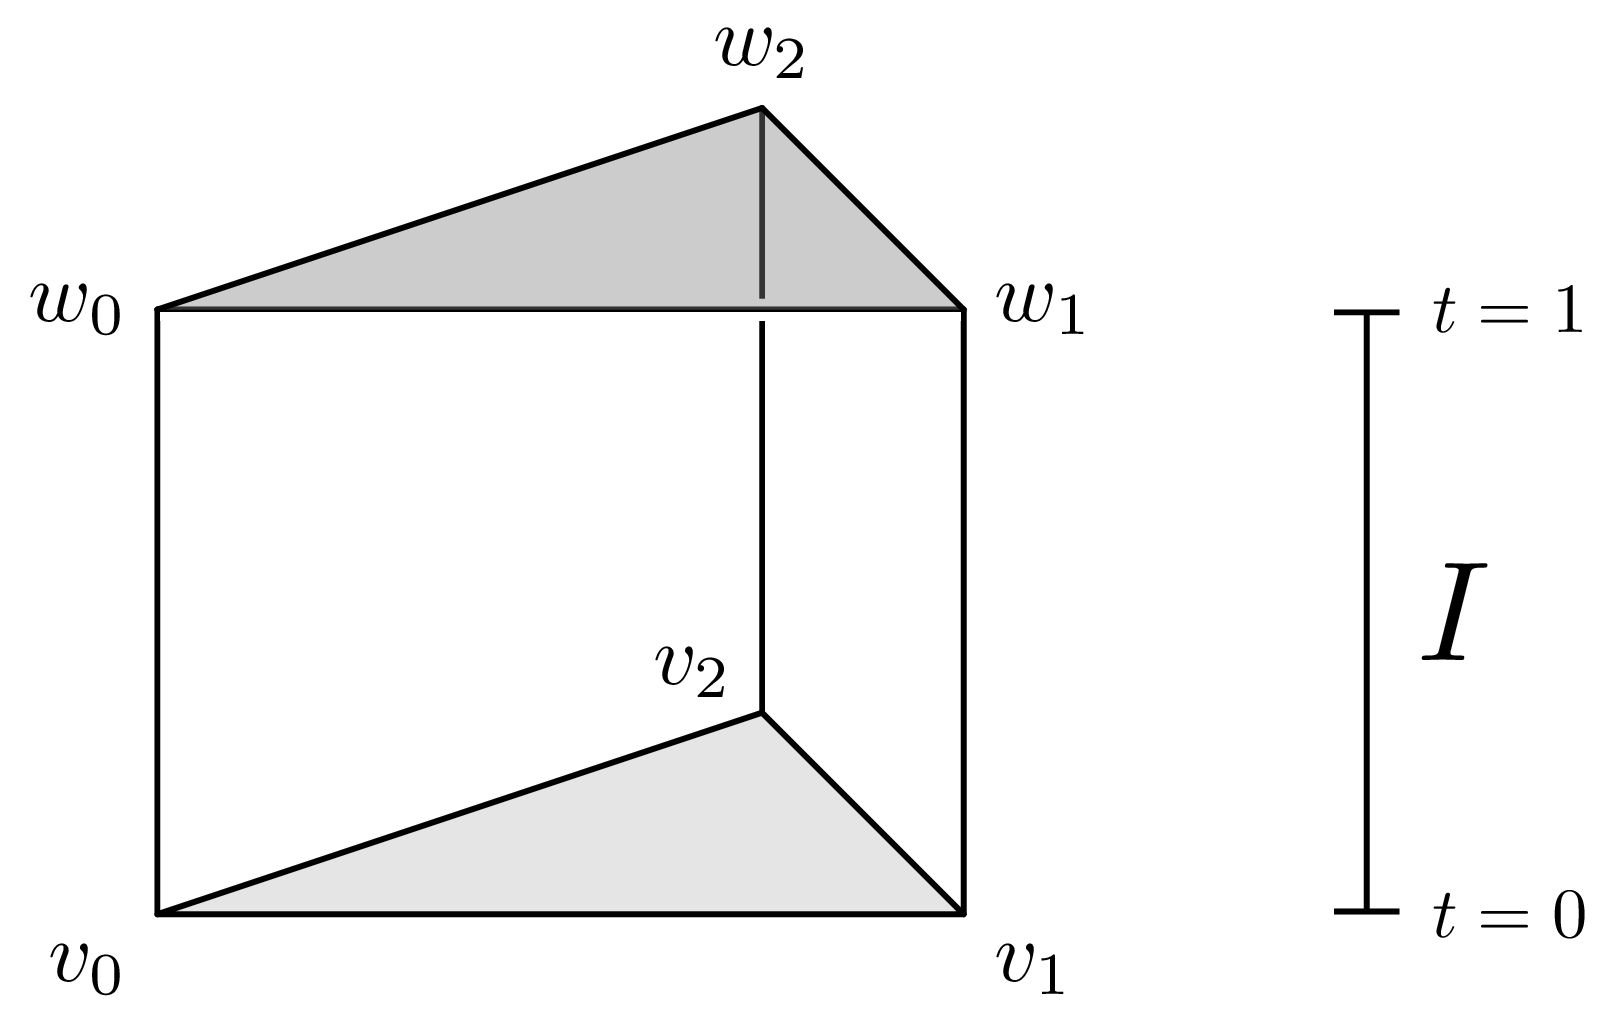
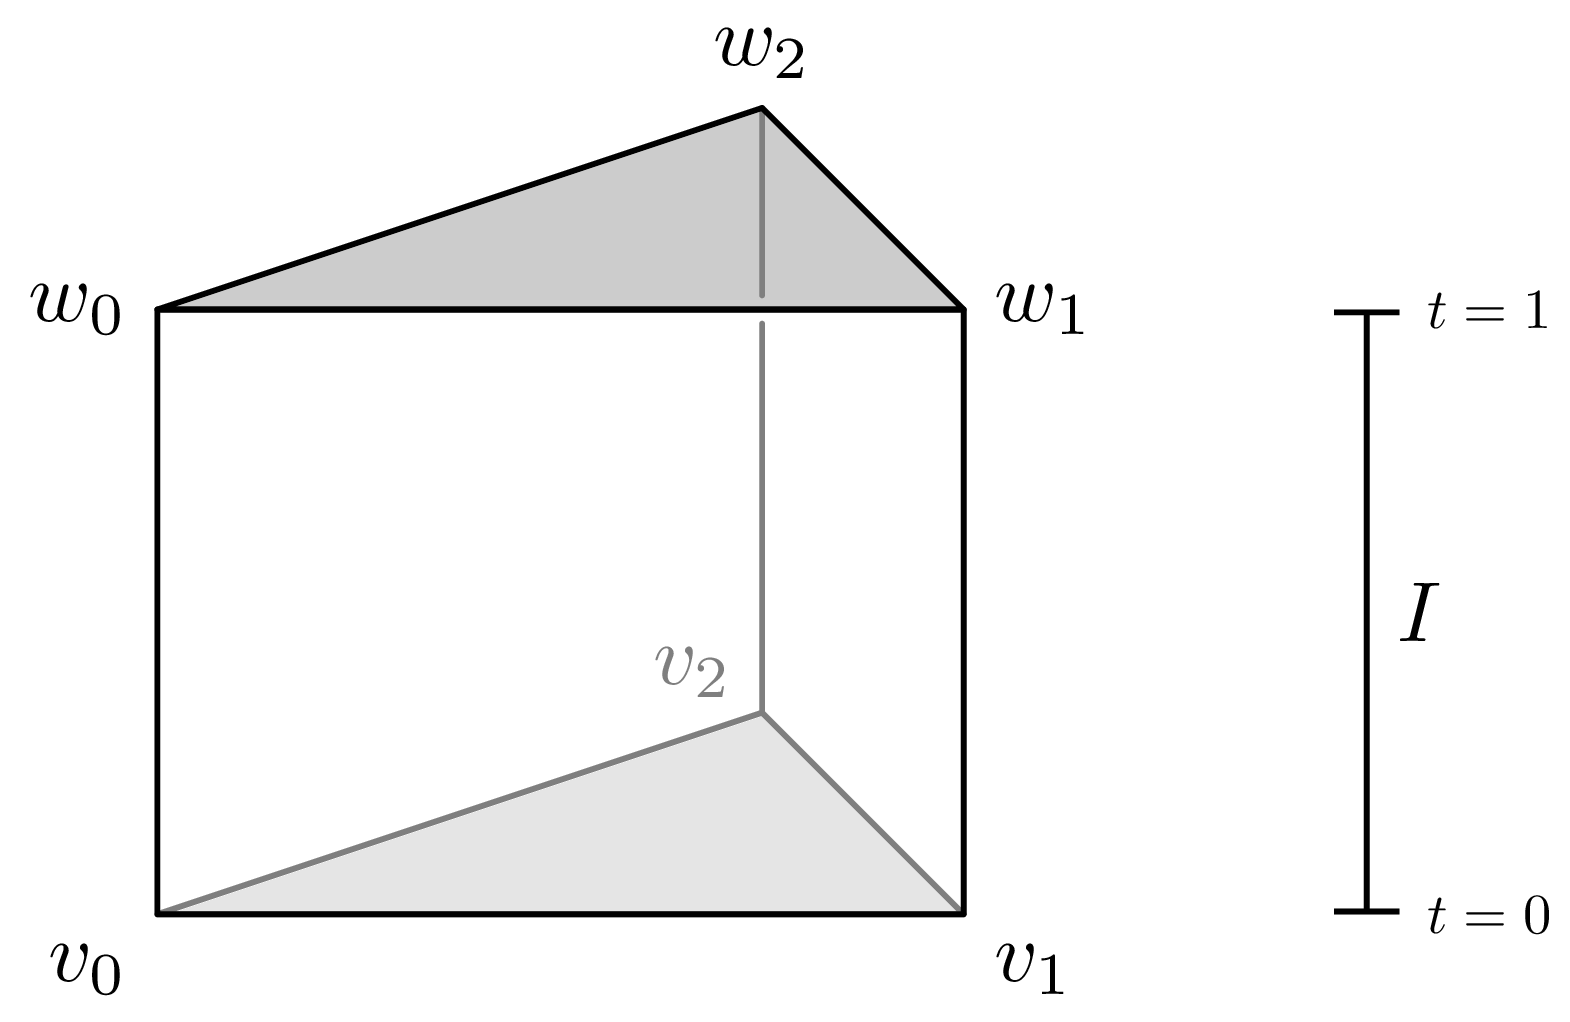
Posts (-250717)

diff --git a/assets/diagrams/Algebraic_Topology/Algebraic_topology.tex b/assets/diagrams/Algebraic_Topology/Algebraic_topology.tex
@@ -2,34 +2,33 @@
 \usepackage{amsmath, amsthm, amsfonts,xcolor,pgfplots}
 \usepackage{tikz-cd, kotex}
 \usetikzlibrary{decorations.markings}
-\usetikzlibrary{3d}
+\usetikzlibrary{3d,intersections}
 \usepgfplotslibrary{colorbrewer}
 \usepackage{../.preamble/quiver}
 \usepackage{../.preamble/Operators}
 \begin{document}
 \nopagecolor
 
-
-\begin{tikzpicture}[line join=round, line cap=round]
-  \fill[gray, opacity=.2] (0,0) -- (2,0) -- (1.5,.5) -- cycle; 
-  \draw (0,0) -- (2,0) -- (1.5,.5) -- cycle; 
-  \draw (1.5,.5) -- (1.5,2);
-  \draw[preaction={draw=white, line width=1.5pt}] (0,1.5) -- (2,1.5); 
-  \fill[gray, opacity=.4] (0,1.5) -- (2,1.5) -- (1.5,2) -- cycle; 
-  \draw (0,0) -- (0,1.5);
-  \draw (2,0) -- (2,1.5);
-  \draw (0,1.5) --(1.5,2)--(2,1.5);
-  \draw[|-|] (3,0) --(3,1.5);
-  \draw (3,.75) node[right]{$I$};
-  \draw (3.1,0) node[right, scale=.5]{$t=0$};
-  \draw (3.1,1.5) node[right, scale=.5]{$t=1$};
-  \draw (0,0) node[below left, scale=.6]{$v_0$};
-  \draw (2,0) node[below right, scale=.6]{$v_1$};
-  \draw (1.5,.6) node[left, scale=.6]{$v_2$};
-  \draw (0,1.5) node[left, scale=.6]{$w_0$};
-  \draw (2,1.5) node[right, scale=.6]{$w_1$};
-  \draw (1.5,2) node[above, scale=.6]{$w_2$};
+\begin{tikzpicture}
+  \draw[blue, -{stealth}] (-1,0) -- (.1,0);
+  \draw[blue] (-1,0) -- (1,0);
+  \fill[red] (-1,0) circle[radius=1pt];
+  \fill[red] (1,0) circle[radius=1pt];
+  \begin{scope}[shift={(3,0)}]
+    \fill[orange, opacity=.2] (0,0) circle[radius=1];
+    \draw[-{stealth}, blue] (90:1) arc (90:150:1);
+    \draw[blue] (150:1) arc (150:210:1);
+    \draw[-{stealth}, blue] (210:1) arc (210:270:1);
+    \draw[-{stealth}, blue] (270:1) arc (270:275:1);
+    \draw[blue] (275:1) arc (275:330:1);
+    \draw[->, blue] (90:1) arc (90:30:1);
+    \draw[blue] (30:1) arc (30:-30:1);
+    \fill[red] (90:1) circle[radius=1pt];
+    \fill[red] (210:1) circle[radius=1pt];
+    \fill[red] (330:1) circle[radius=1pt];
+  \end{scope}
 \end{tikzpicture}
+
 
 
 \end{document}
@@ -326,24 +325,103 @@
   \fill (1,1) circle[radius=.5pt] node[above right]{$v_2$};
 \end{tikzpicture}
 
-%% Prism_1 (Homotopy-1.png)
+%% Prism (Homotopy-1.png)
 \begin{tikzpicture}[line join=round, line cap=round]
-  \fill[gray, opacity=.2] (0,0) -- (2,0) -- (1.5,.5) -- cycle; 
-  \draw (0,0) -- (2,0) -- (1.5,.5) -- cycle; 
-  \draw (1.5,.5) -- (1.5,2);
-  \draw[preaction={draw=white, line width=1.5pt}] (0,1.5) -- (2,1.5); 
-  \fill[gray, opacity=.4] (0,1.5) -- (2,1.5) -- (1.5,2) -- cycle; 
-  \draw (0,0) -- (0,1.5);
-  \draw (2,0) -- (2,1.5);
-  \draw (0,1.5) --(1.5,2)--(2,1.5);
-  \draw[|-|] (3,0) --(3,1.5);
-  \draw (3,.75) node[right]{$I$};
-  \draw (3.1,0) node[right, scale=.5]{$t=0$};
-  \draw (3.1,1.5) node[right, scale=.5]{$t=1$};
+  \fill[draw=gray, fill=gray, fill opacity=.2] (0,0) -- (2,0) -- (1.5,.5) -- cycle; 
+  \path[name path=1] (1.5,.5) -- (1.5,2);
+  \path[name path=2] (1.5,2) -- (0,0);
+  \path[name path=3] (1.5,2) -- (2,0);
+  \path[name path=4] (0,1.5) -- (2,1.5);
+  \path[name intersections={of=1 and 4, by=14}];
+  \draw[gray, shorten >=1pt] (1.5,.5) -- (14);
+  \draw[gray, shorten <=1pt] (14) -- (1.5,2);
+  \draw (0,0) -- (2,0) -- (2,1.5) -- (0,1.5) -- cycle;
+  \filldraw[fill=gray, fill opacity=.4] (0,1.5) -- (2,1.5) -- (1.5,2) -- cycle;
   \draw (0,0) node[below left, scale=.6]{$v_0$};
   \draw (2,0) node[below right, scale=.6]{$v_1$};
-  \draw (1.5,.6) node[left, scale=.6]{$v_2$};
+  \draw (1.5,.6) node[left, scale=.6, gray]{$v_2$};
   \draw (0,1.5) node[left, scale=.6]{$w_0$};
   \draw (2,1.5) node[right, scale=.6]{$w_1$};
   \draw (1.5,2) node[above, scale=.6]{$w_2$};
+  \draw[|-|] (3,0) -- (3,1.5);
+  \draw (3,.75) node[right, scale=.6]{$I$};
+  \draw (3.1,0) node[right, scale=.4]{$t=0$};
+  \draw (3.1,1.5) node[right, scale=.4]{$t=1$};
+\end{tikzpicture}
+
+%% Prism_sliced (Homotopy-2.png)
+\begin{tikzpicture}[line join=round, line cap=round]
+    \begin{scope}[shift={(-4,0)}]
+      \fill[draw=gray, fill=gray, fill opacity=.02] (0,0) -- (2,0) -- (1.5,.5) -- cycle; 
+      \path[name path=1] (1.5,.5) -- (1.5,2);
+      \path[name path=2] (1.5,2) -- (0,0);
+      \path[name path=3] (1.5,2) -- (2,0);
+      \path[name path=4] (0,1.5) -- (2,1.5);
+      \path[name path=5] (0,0) -- (2,1.5);
+      \path[name intersections={of=1 and 4, by=14}];
+      \path[name intersections={of=1 and 5, by=15}];
+      \path[name intersections={of=2 and 4, by=24}];
+      \path[name intersections={of=3 and 4, by=34}];
+      \path[name intersections={of=3 and 5, by=35}];
+      \draw[gray, shorten >=1pt] (1.5,.5) -- (15);
+      \draw[gray, shorten <=1pt, shorten >=1pt] (15) -- (14);
+      \draw[gray, shorten <=1pt] (14) -- (1.5,2);
+      \draw[gray, shorten >=1pt] (0,0) -- (24);
+      \draw[gray, shorten <=1pt] (24) -- (1.5,2);
+      \draw[gray, shorten >=1pt] (1.5,2) -- (34);
+      \draw[gray, shorten <=1pt, shorten >=1pt] (34) -- (35);
+      \draw[gray, shorten <=1pt] (35) -- (2,0);
+      \draw (0,0) -- (2,0) -- (2,1.5) -- (0,1.5) -- cycle;
+      \draw (0,0) -- (2,1.5);
+      \filldraw[fill=gray, fill opacity=.04] (0,1.5) -- (2,1.5) -- (1.5,2) -- cycle;
+      \draw (0,0) node[below left, scale=.6]{$v_0$};
+      \draw (2,0) node[below right, scale=.6]{$v_1$};
+      \draw (1.5,.6) node[left, scale=.6, gray]{$v_2$};
+      \draw (0,1.5) node[left, scale=.6]{$w_0$};
+      \draw (2,1.5) node[right, scale=.6]{$w_1$};
+      \draw (1.5,2) node[above, scale=.6]{$w_2$};
+    \end{scope}
+    \draw[->] (-1.75,1) -- (-1.1,1);
+    \begin{scope}[shift={(-.8,.2)}]
+      \path[name path=1] (1.5,.5) -- (1.5,2);
+      \path[name path=2] (1.5,2) -- (0,0);
+      \path[name path=3] (1.5,2) -- (2,0);
+      \path[name path=4] (0,1.5) -- (2,1.5);
+      \path[name path=5] (0,0) -- (2,1.5);
+      \path[name intersections={of=1 and 4, by=14}];
+      \path[name intersections={of=1 and 5, by=15}];
+      \path[name intersections={of=2 and 4, by=24}];
+      \path[name intersections={of=3 and 4, by=34}];
+      \path[name intersections={of=3 and 5, by=35}];
+      \draw[gray, shorten >=1pt] (0,0) -- (24);
+      \draw[gray, shorten <=1pt] (24) -- (1.5,2);
+      \fill[red, opacity=.2] (0,0) -- (1.5,2) -- (2,1.5) -- cycle;
+      \draw (0,0) -- (0,1.5);
+      \draw (0,0) -- (2,1.5);
+      \draw (0,1.5) -- (2,1.5) -- (1.5,2) -- cycle;
+    \end{scope}
+    \begin{scope}[shift={(.8,-.2)}]
+      \path[name path=1] (1.5,.5) -- (1.5,2);
+      \path[name path=2] (1.5,2) -- (0,0);
+      \path[name path=3] (1.5,2) -- (2,0);
+      \path[name path=4] (0,1.5) -- (2,1.5);
+      \path[name path=5] (0,0) -- (2,1.5);
+      \path[name intersections={of=1 and 4, by=14}];
+      \path[name intersections={of=1 and 5, by=15}];
+      \path[name intersections={of=2 and 4, by=24}];
+      \path[name intersections={of=3 and 4, by=34}];
+      \path[name intersections={of=3 and 5, by=35}];
+      \draw[gray, shorten >=1pt] (1.5,2) -- (35);
+      \draw[gray, shorten <=1pt] (35) -- (2,0);
+      \filldraw[fill=red, fill opacity=.2] (0,0) -- (1.5,2) -- (2,1.5) -- cycle;
+      \fill[blue, opacity=.2] (0,0) -- (1.5,2) -- (2,0) --cycle;
+      \draw (0,0) -- (2,0) -- (2,1.5);
+    \end{scope}
+    \begin{scope}[opacity=.4]
+    \draw[gray] (2,0)-- (1.5,.5) -- (0,0); 
+    \draw[gray] (1.5,2)--(1.5,.5);
+    \draw (0,0) -- (1.5,2) -- (2,0) -- cycle;
+    \fill[gray, opacity=.2] (0,0) -- (2,0) -- (1.5,.5) -- cycle; 
+    \fill[blue, opacity=.2] (1.5,2) -- (2,0) -- (0,0) --cycle;
+    \end{scope}
 \end{tikzpicture}

diff --git a/_posts/Math/Algebraic_Topology/ko/2025-07-09-Homotopy.md b/_posts/Math/Algebraic_Topology/ko/2025-07-09-Homotopy.md
@@ -131,15 +131,23 @@ $$[v_0,\ldots, v_n,w_n],\quad [v_0,\ldots, v_{n-1}, w_{n-1}, w_n],\quad\ldots,[v
 
 으로 나눌 수 있고 마찬가지로 $n=2$인 경우를 그리면 다음과 같다. 
 
+![](/assets/images/Math/Algebraic_Topology/Homotopy-2.png){:style="width:30em" class="invert" .align-center}
 
+이 분해를 이용하여 다음의 식
+
+$$h_n(\sigma)=\sum_i (-1)^iF\circ(\sigma\times\id_I)\vert_{[v_0,\ldots, v_i, w_i,\ldots, w_n]}$$
+
+으로 정의할 수 있고, 이것이 식 (1)을 만족한다는 것은 단순한 계산의 결과이다. 
 
 </details>
 
-남은 글에서 우리는 homotopy equivalence의 기하학적 의미를 조금 더 살펴본다. 
+따라서 homotopic한 연속함수들은 homology 상에서 같은 함수를 유도한다. ([\[호몰로지 대수학\] §호몰로지, ⁋명제 6](/ko/math/homological_algebra/long_exact_sequence#prop6)) 특히 만일 두 공간 $X,Y$가 homotopically equivalent이고 $f:X \rightarrow Y$와 $g:Y\rightarrow X$가 [정의 4](#def4)와 같이 주어졌다면 두 공간의 homology $H_\bullet(X)$와 $H_\bullet(Y)$가 같다.
+
+이제 남은 글에서 우리는 homotopy equivalence의 기하학적 의미를 조금 더 살펴본다. 
 
 ## Deformation retract
 
-많은 경우 호모토피 동형인 두 공간은 *deformation retract*라 부르는 변형의 결과로 나타나며, 뿐만 아니라 이들은 (다소 뜬금없이 던져진 [정의 2](#def2)에 비하여) 어느정도 기하학적으로 연관관계도 있다. 이를 정의하기 위해서는 우선 retraction을 정의해야 한다. ([\[집합론\], §Retraction과 section, ⁋정의 2](/ko/math/set_theory/retraction_and_section#def2))
+많은 경우 homotopically equivalent한 두 공간은 *deformation retract*라 부르는 변형의 결과로 나타나며, 뿐만 아니라 이들은 (다소 뜬금없이 던져진 [정의 2](#def2)에 비하여) 어느정도 기하학적으로 연관관계도 있다. 이를 정의하기 위해서는 우선 retraction을 정의해야 한다. ([\[집합론\], §Retraction과 section, ⁋정의 2](/ko/math/set_theory/retraction_and_section#def2))
 
 <div class="definition" markdown="1">
 
@@ -151,11 +159,15 @@ $$[v_0,\ldots, v_n,w_n],\quad [v_0,\ldots, v_{n-1}, w_{n-1}, w_n],\quad\ldots,[v
 
 <div class="example" markdown="1">
 
-<ins id="ex8">**예시 8**</ins> 가령, 2차원 상의 꽉 찬 원판 $D^2$와 그 경계 $S^1$에 대하여, $D^2$에서 $S^1$으로의 retraction이 존재하지 않음이 알려져 있다. 
+<ins id="ex8">**예시 8**</ins> 가령 차원 상의 꽉 찬 원판 $D^2$와 그 경계 $S^1$에 대하여, $D^2$에서 $S^1$으로의 retraction이 존재하지 않음이 알려져 있다. 만일 retraction $r:D^2\rightarrow S^2$이 존재한다면, $H_n$의 functoriality로부터 
+
+$$H_n(r)\circ H_n(\iota)=H_n(r\circ\iota)=H_n(\id_{S^1})=\id_{H_n(S^1)}$$
+
+이 모든 $n$에 대해 성립할 것이다. 특히 $H_n(\iota):H_n(S^1)\rightarrow H_n(D^2)$는 injective여야 한다. 그런데 
 
 </div>
 
-그럼 deformation retract는 다음과 같이 정의된다. 
+
 
 <div class="definition" markdown="1">
 
